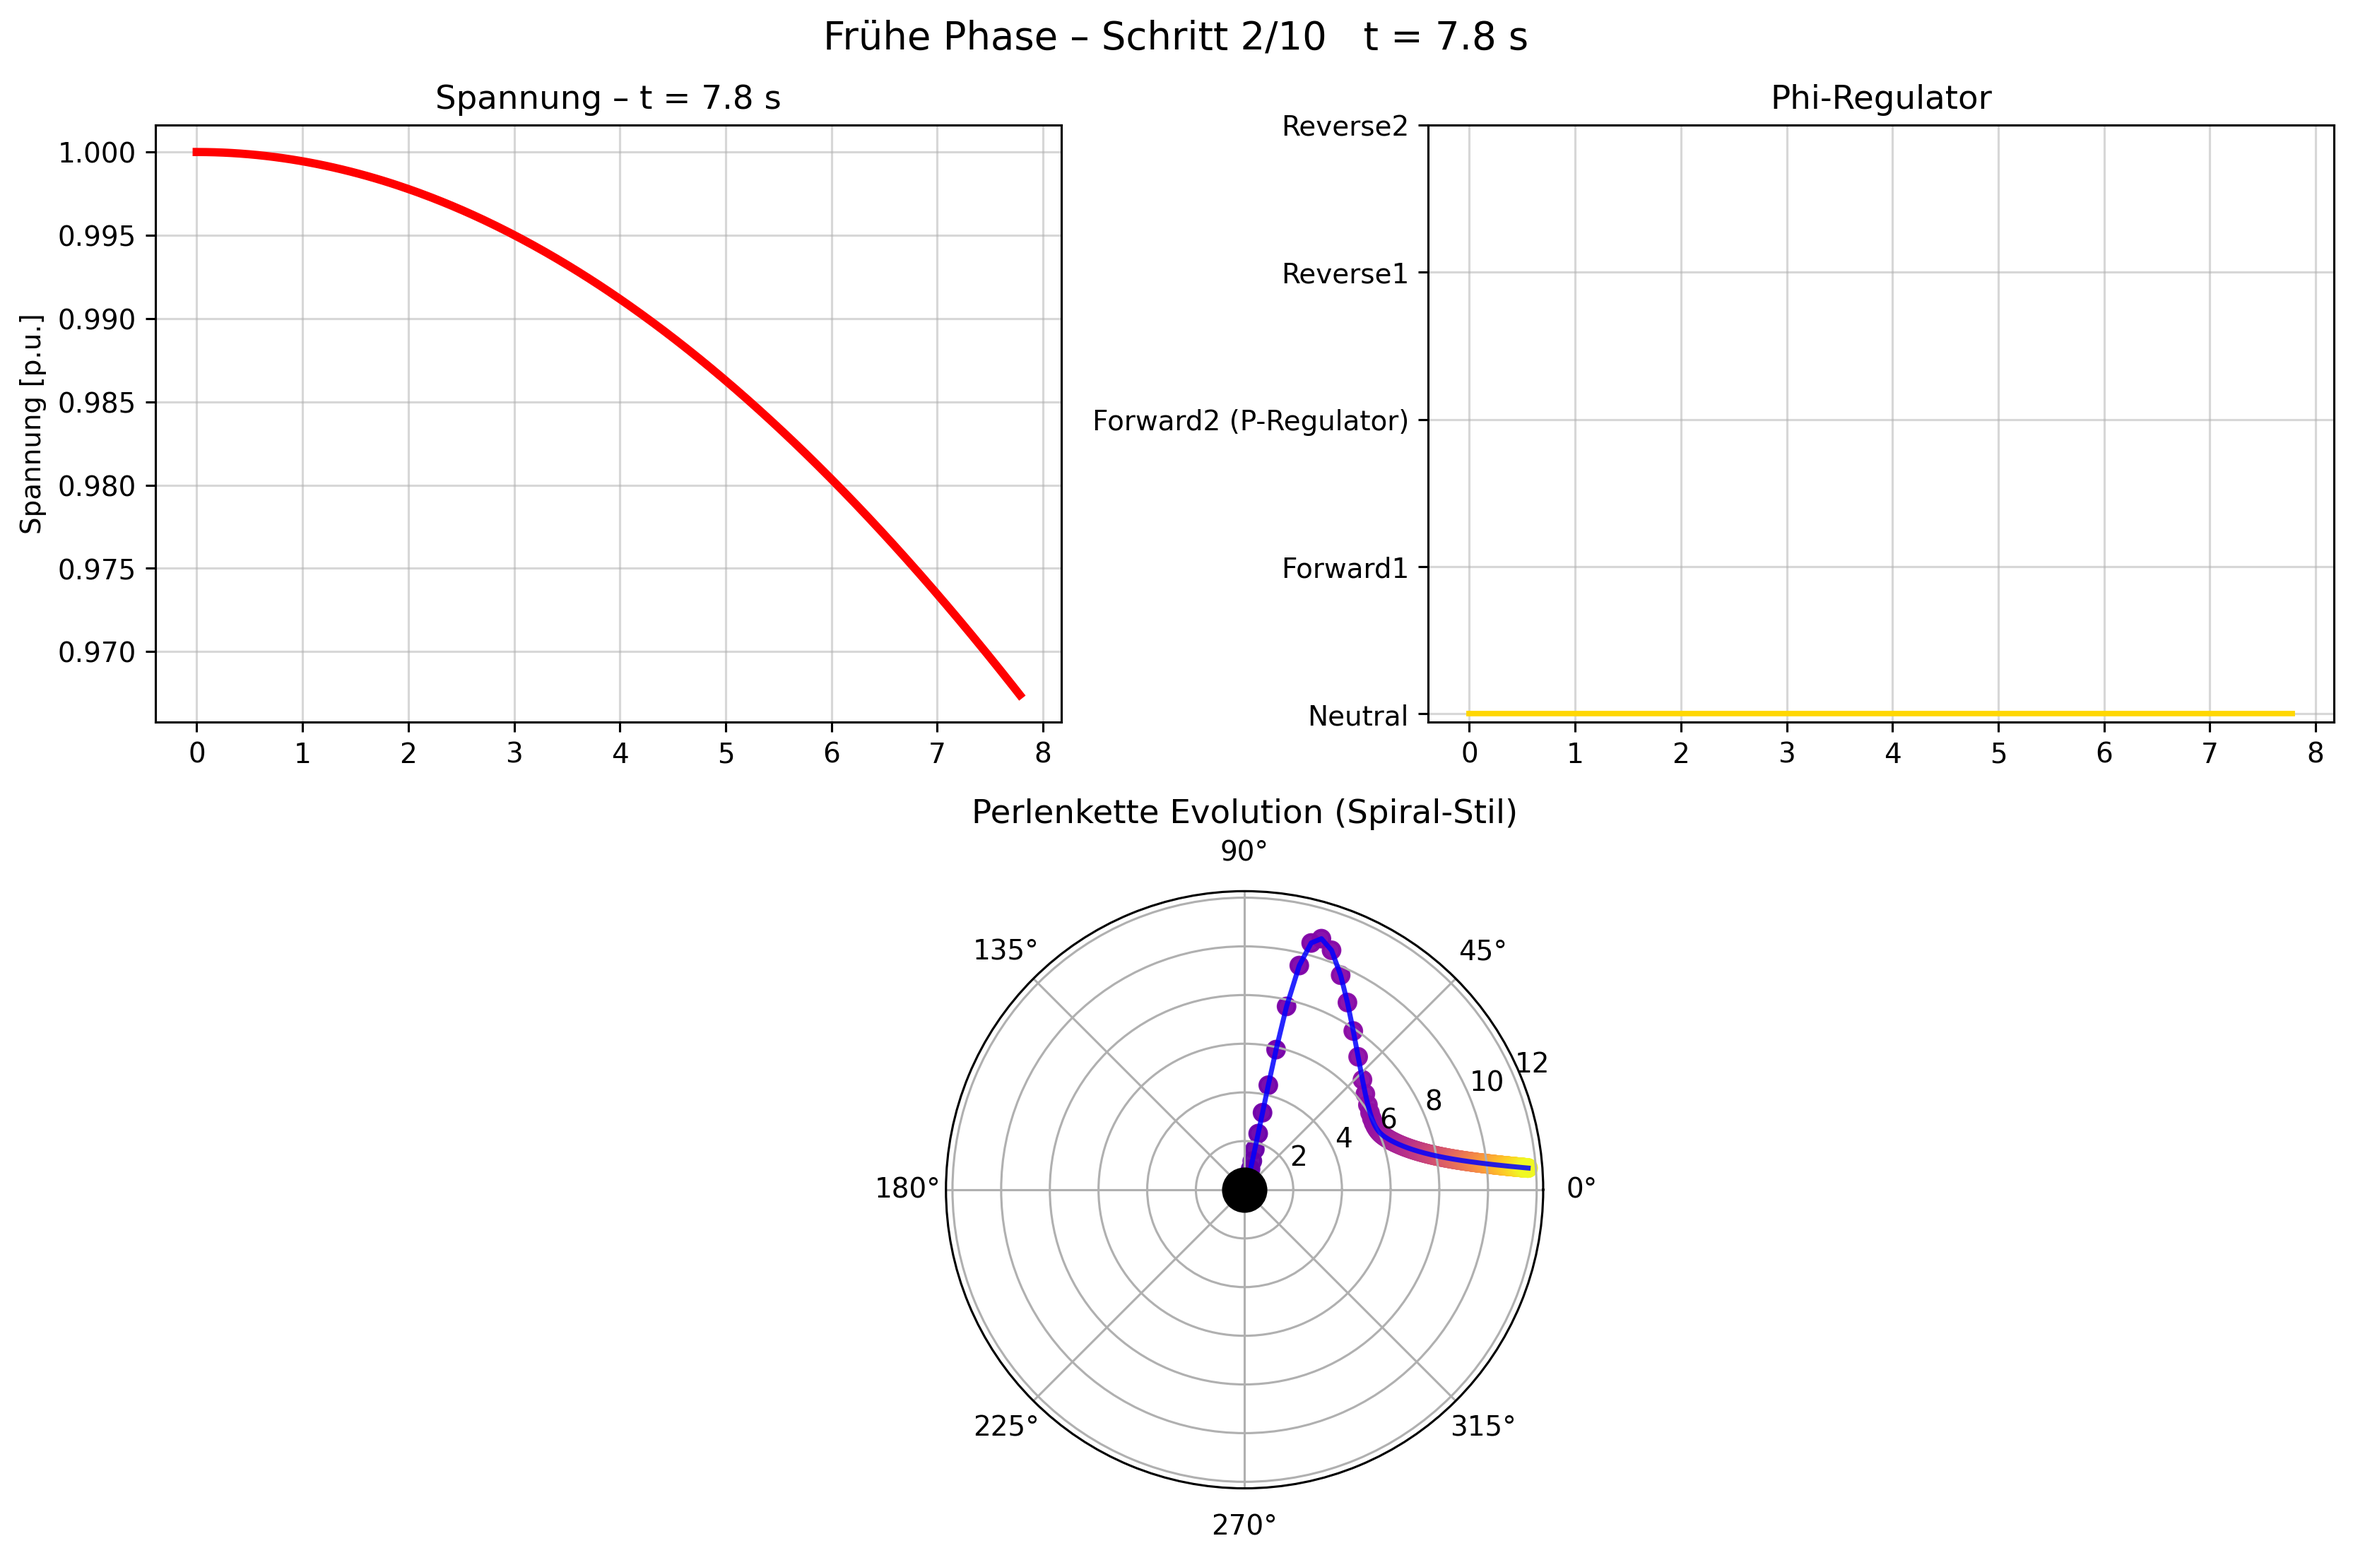
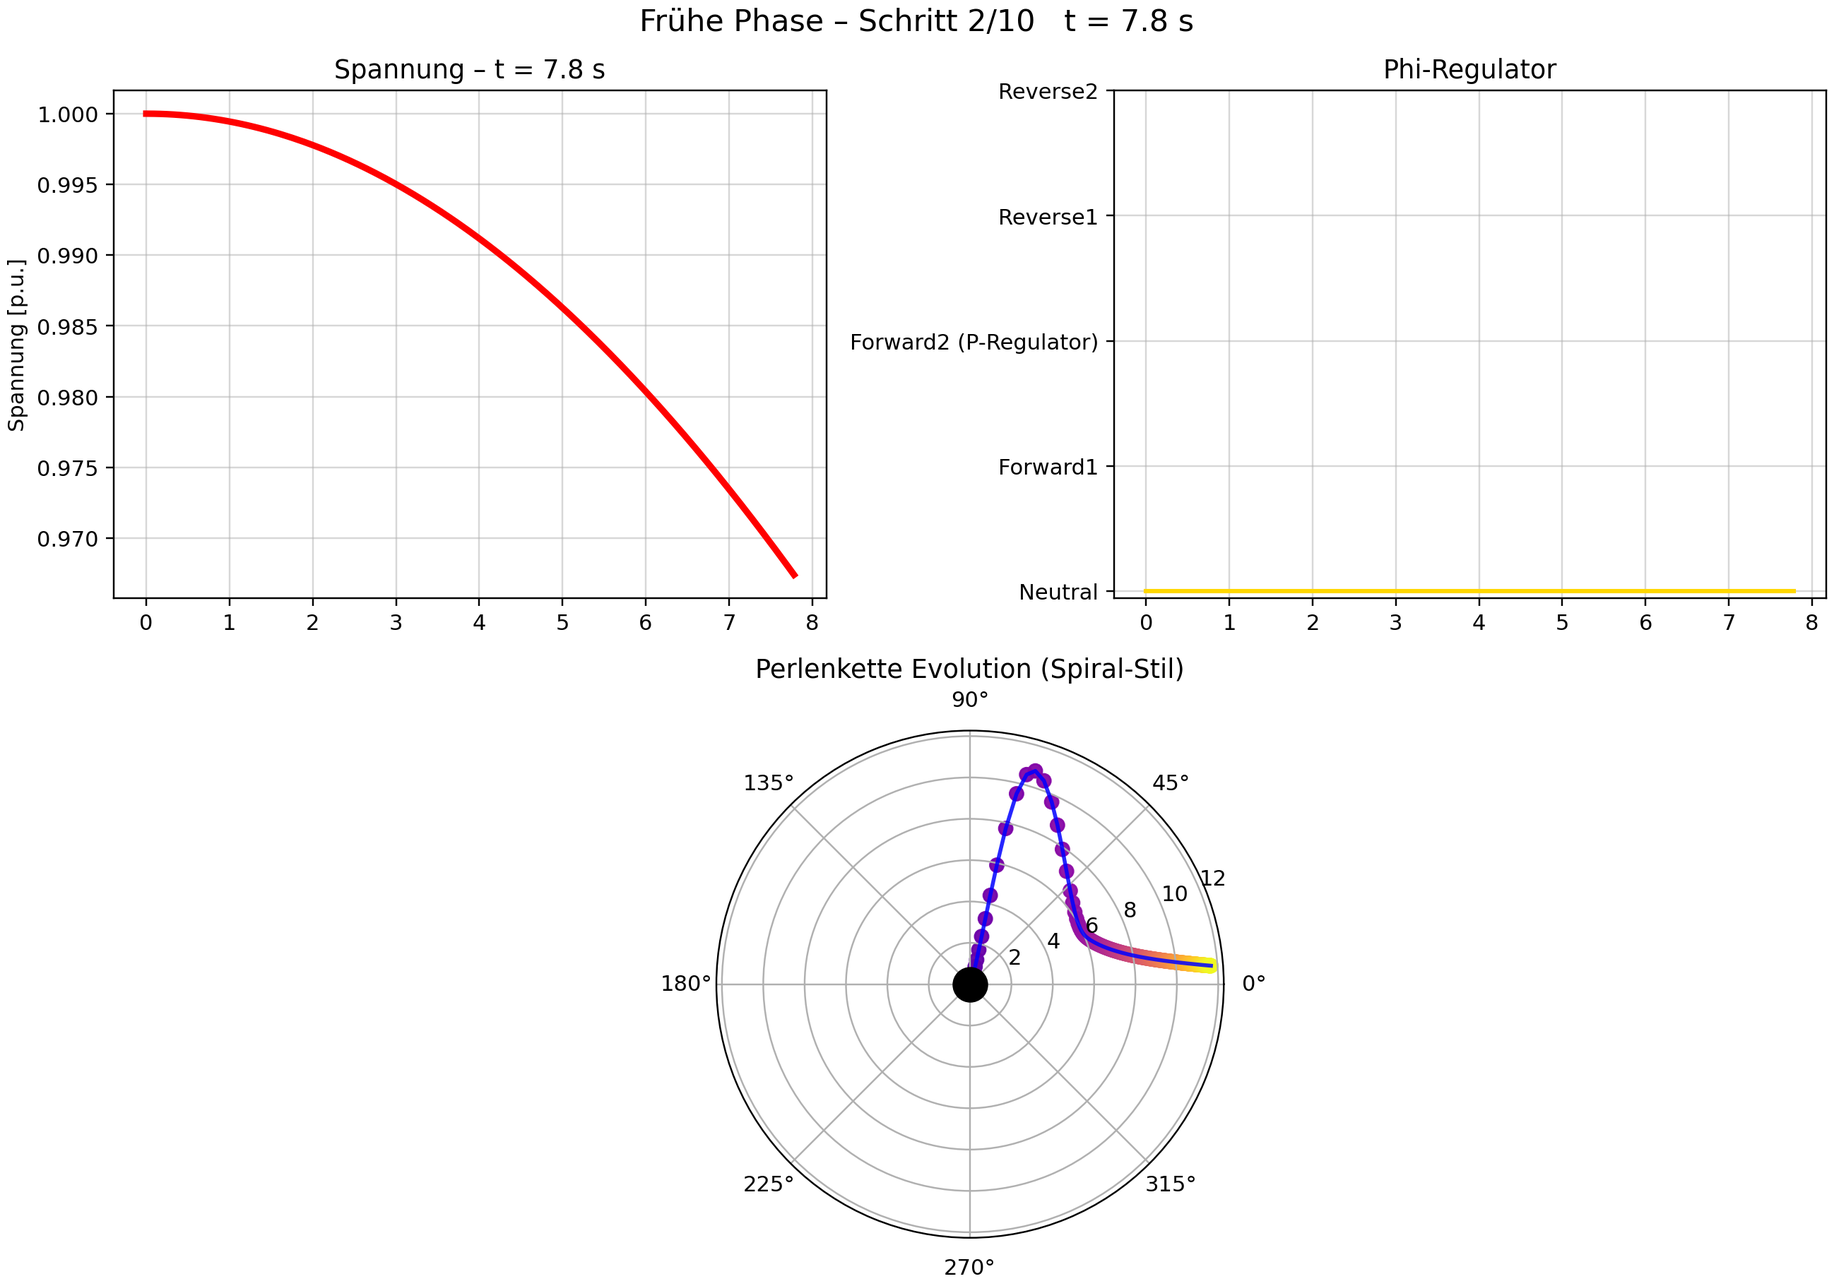
commit

diff --git a/APPLICATIONS/power_systems/stability_field_dynamics/iee_core_geometry/ieee_scaling/ieee300_early_10step_spiral_gif.py b/APPLICATIONS/power_systems/stability_field_dynamics/iee_core_geometry/ieee_scaling/ieee300_early_10step_spiral_gif.py
@@ -3,7 +3,7 @@ import matplotlib.pyplot as plt
 from scipy.integrate import solve_ivp
 import pandapower as pp
 import pandapower.networks as pn
-import imageio
+import imageio.v2 as imageio   # v2 für stabile GIF-Erzeugung
 import glob
 import os
 
@@ -11,7 +11,7 @@ PHI_NAMES = ["Neutral", "Forward1", "Forward2 (P-Regulator)", "Reverse1", "Rever
 
 print("🚀 Erstelle 10er-GIF der frühen Phase im Spiral-Stil (IEEE 300-Bus)\n")
 
-# ====================== ODE (v12.7 Basis) ======================
+# ====================== ODE ======================
 def nexah_lorenz_ode(t, x):
     c, dc, phi_idx = x
     phi = np.clip(int(round(phi_idx)), 0, 4)
@@ -23,13 +23,13 @@ def nexah_lorenz_ode(t, x):
     
     I_phi = 1.0 if phi < 3 else 0.15 + 0.85 * np.tanh((phi - 1.85) * 5.8)
     slow_start = min(1.0, t / 5.0)
-    contraction = 0.92   # frühe Phase → fast keine Kontraktion
+    contraction = 0.92
     
     d_dc = (0.95 * f_field + 0.65 * f_vdp + 0.40 * f_kuramoto + f_iota) * I_phi * slow_start * contraction
     
     d_phi = 0.0
     if t > 8.0 and abs(dc) > 1.6 and abs(c) > 1.1 and phi == 2:
-        d_phi = 18.0 + 12.0   # früher, aber kontrollierter Start
+        d_phi = 18.0 + 12.0
     
     return [dc * contraction, d_dc, d_phi]
 
@@ -49,12 +49,12 @@ phi_idx = np.round(sol.y[2]).astype(int).clip(0, 4)
 
 voltage_classic = 1.0 / (1.0 + 1.15 * (0.022 * t)**2)
 
-# ====================== 10er GIF ======================
+# ====================== 10er GIF (feste Größe) ======================
 frames = []
-step = max(1, len(t) // 10)   # genau ~10 Frames
+step = max(1, len(t) // 10)
 
 for i in range(0, len(t), step):
-    fig = plt.figure(figsize=(12, 8))
+    fig = plt.figure(figsize=(12, 8.5), dpi=220)   # feste Größe + hohe Auflösung
     gs = fig.add_gridspec(2, 2)
     
     # Spannung
@@ -72,12 +72,12 @@ for i in range(0, len(t), step):
     ax2.set_yticklabels(PHI_NAMES)
     ax2.grid(True, alpha=0.5)
     
-    # Polar Perlenkette (Spiral-Stil)
+    # Polar Perlenkette – Spiral-Stil
     ax3 = fig.add_subplot(gs[1, :], projection='polar')
     theta = np.arctan2(dc[:i+1], c[:i+1])
     r = np.sqrt(c[:i+1]**2 + dc[:i+1]**2)
     ax3.plot(theta, r, 'b-', lw=1.8, alpha=0.85)
-    ax3.scatter(theta, r, c=t[:i+1], cmap='plasma', s=38, alpha=0.95)   # Zeit-Farbverlauf
+    ax3.scatter(theta, r, c=t[:i+1], cmap='plasma', s=38, alpha=0.95)  # Zeit-Farbverlauf
     ax3.scatter(0, 0, color='black', s=240, zorder=10)
     ax3.set_title("Perlenkette Evolution (Spiral-Stil)")
     ax3.grid(True)
@@ -86,13 +86,13 @@ for i in range(0, len(t), step):
     plt.tight_layout()
     
     frame_path = f"early_frame_{i//step + 1:02d}.png"
-    plt.savefig(frame_path, dpi=280, bbox_inches='tight')
+    plt.savefig(frame_path, dpi=220, bbox_inches='tight', pad_inches=0.05)
     frames.append(frame_path)
     plt.close()
 
 # GIF erzeugen
-imageio.mimsave("ieee300_early_10step_spiral.gif", [imageio.imread(f) for f in frames], duration=0.6)
+imageio.mimsave("ieee300_early_10step_spiral.gif", [imageio.imread(f) for f in frames], duration=0.6, loop=0)
 
 print("🎥 10er-GIF gespeichert als: ieee300_early_10step_spiral.gif")
 print("   (Zeit-Farbverlauf + Helix-Modulation + 90°-Struktur)")
-print("\nFertig! Schau dir die GIF an und sag mir, was dir auffällt.")
+print("\n✅ Fertig! Schau dir die GIF an und sag mir, was dir auffällt.")
